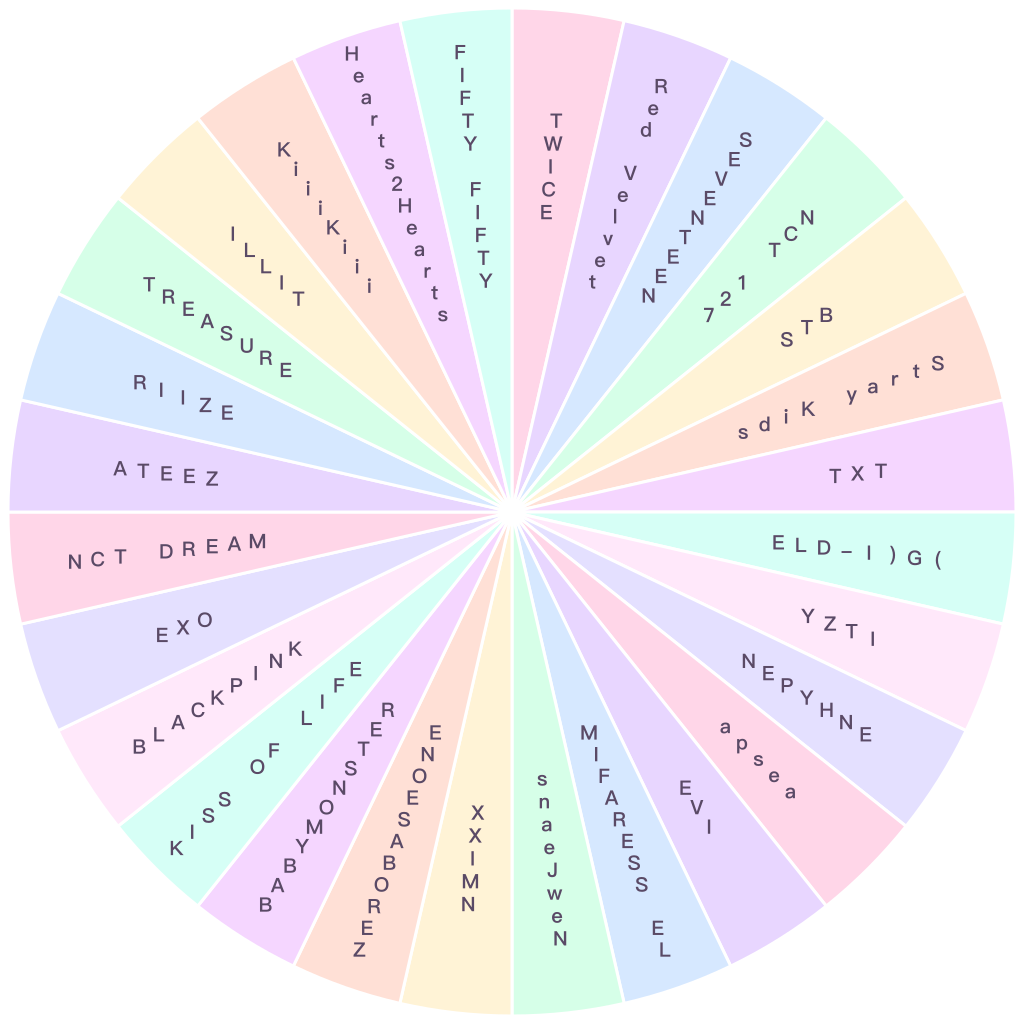
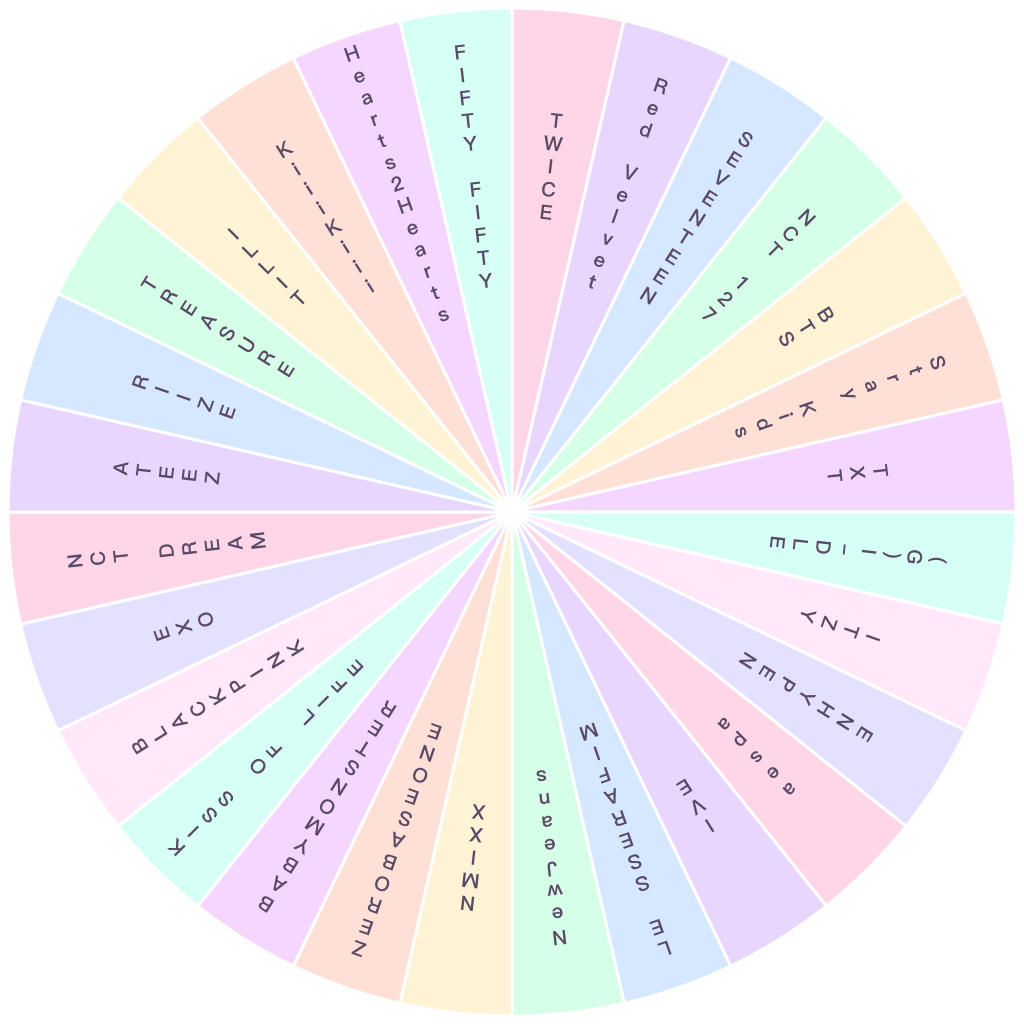
[fix] 转盘素材文字改为网页版同款钟表式排布（字形随扇区旋转）

diff --git a/抖音特效/生成素材.js b/抖音特效/生成素材.js
@@ -54,12 +54,18 @@ function drawWheel(size, withLabels) {
     ctx.font = '700 ' + fs + 'px ' + FONT;
     for (let i = 0; i < n; i++) {
       const mid = (-90 + (i + 0.5) * seg) * Math.PI / 180;
+      const px = cx + Rm * Math.cos(mid), py = cy + Rm * Math.sin(mid);
+      const phi = (i + 0.5) * seg; // 与网页版 CSS rotate 相同的屏幕旋转角（从 12 点顺时针）
       const name = GROUPS[i].name;
-      // 字形保持正立，沿半径堆叠；k=0 在最外侧（与网页版竖排一致：从外圈往圆心读）
+      // 与网页版一致：文字列沿扇区轴线、字形随扇区角度旋转（钟表式排布），k=0 在最外侧
+      ctx.save();
+      ctx.translate(px, py);
+      ctx.rotate(phi * Math.PI / 180);
       for (let k = 0; k < name.length; k++) {
-        const rk = Rm + ((name.length - 1) / 2 - k) * step;
-        ctx.fillText(name[k], cx + rk * Math.cos(mid), cy + rk * Math.sin(mid));
+        const yk = -((name.length - 1) / 2 - k) * step;
+        ctx.fillText(name[k], 0, yk);
       }
+      ctx.restore();
     }
   }
   return c;
